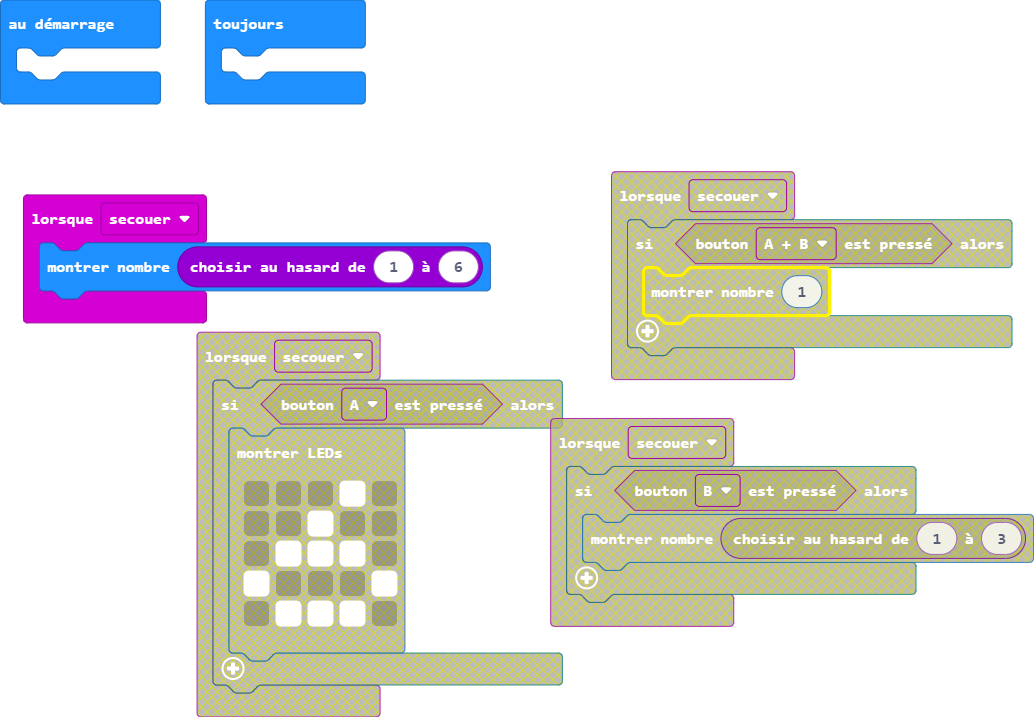
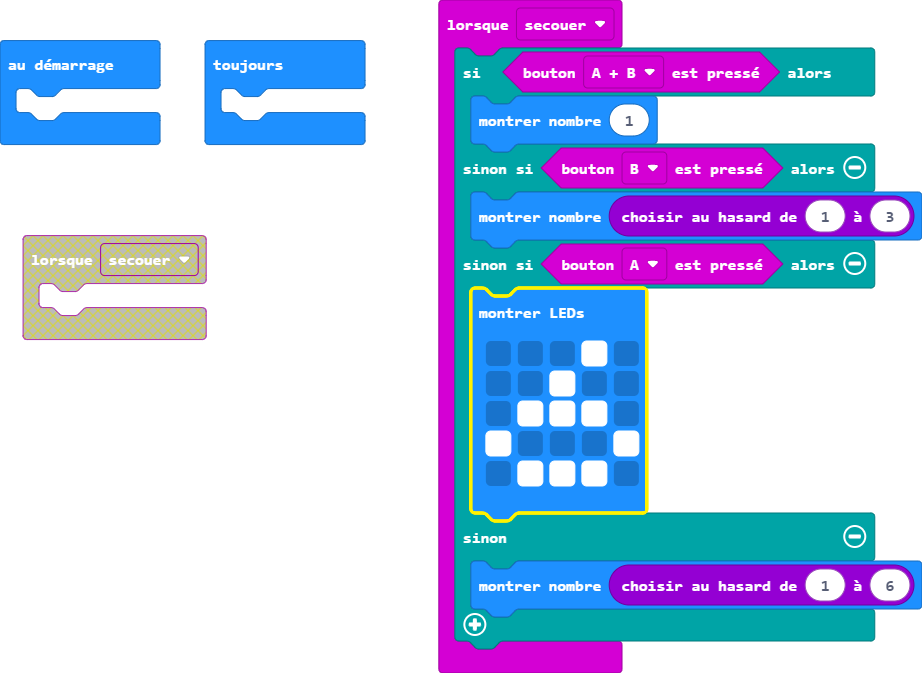
marche

diff --git a/main.ts b/main.ts
@@ -1,5 +1,19 @@
 input.onGesture(Gesture.Shake, function () {
-    basic.showNumber(randint(1, 6))
+    if (input.buttonIsPressed(Button.AB)) {
+        basic.showNumber(1)
+    } else if (input.buttonIsPressed(Button.B)) {
+        basic.showNumber(randint(1, 3))
+    } else if (input.buttonIsPressed(Button.A)) {
+        basic.showLeds(`
+            . . . # .
+            . . # . .
+            . # # # .
+            # . . . #
+            . # # # .
+            `)
+    } else {
+        basic.showNumber(randint(1, 6))
+    }
 })
 basic.forever(function () {
 	
